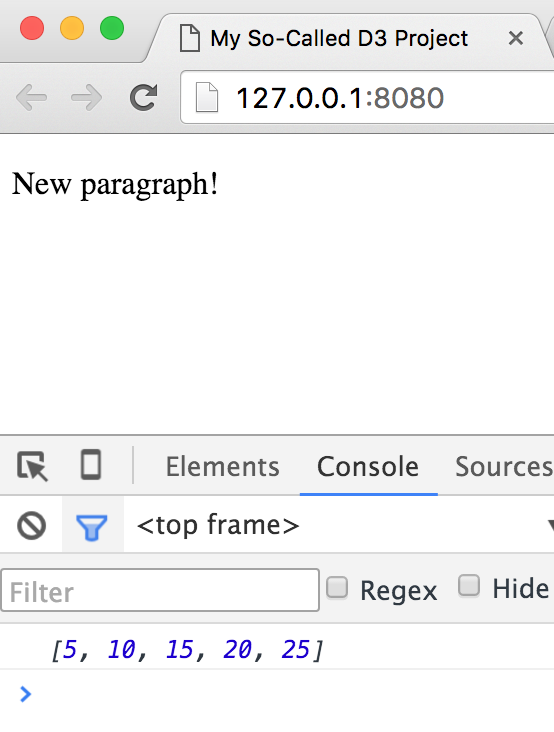
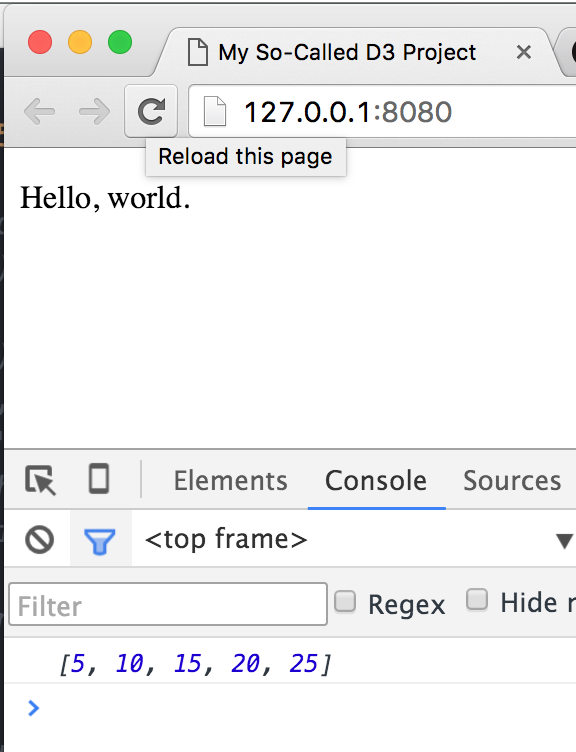
Revisions.

Changed region(s): [[0.0, 0.0, 1.0, 1.0], [0.9513, 0.6913, 1.0, 0.7213]]

diff --git a/app.js b/app.js
@@ -1,17 +1,29 @@
 var dataset = [ 5, 10, 15, 20, 25 ];
 
-d3.select("body").selectAll("div")
-.data(dataset)
-.enter()
-.append("div")
-.attr("class", "bar")
-.style("width", function(d) {
-  var barWidth = d * 5; //Scale up by factor of 5
-  return barWidth + "px";
-})
-.text(function(d) {
-  return d;
-})
-.style("background-color", function(d) {
-  return "rgb(0, 0, " + (d * 10) + ")";
-});
+// d3.select("body").selectAll("div")
+// .data(dataset)
+// .enter()
+// .append("div")
+// .attr("class", "bar")
+// .style("width", function(d) {
+//   var barWidth = d * 5; //Scale up by factor of 5
+//   return barWidth + "px";
+// })
+// .text(function(d) {
+//   return d;
+// })
+// .style("background-color", function(d) {
+//   return "rgb(0, 0, " + (d * 10) + ")";
+// });
+
+
+
+
+var dataset = [ 5, 10, 15, 20, 25 ];
+
+d3.data(dataset)
+.select("body")
+.append("p")
+.text(dataset);
+
+console.log(dataset);
